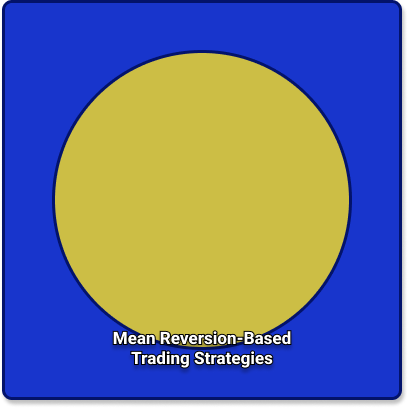
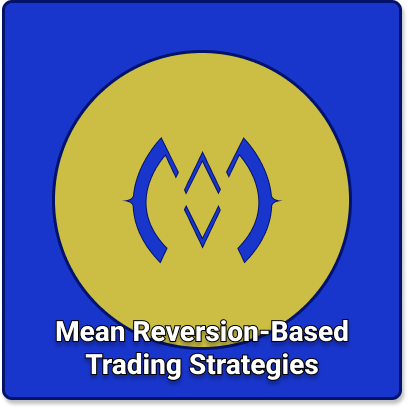
added images, made nav tweaks, fixed modal close issues

diff --git a/index.html b/index.html
@@ -42,10 +42,9 @@
         <!-- Navigation-->
         <nav class="navbar navbar-expand-lg bg-secondary text-uppercase fixed-top" id="mainNav">
             <div class="container">
-                <a class="navbar-brand" href="#page-top">The Curriculum</a>
+                <a class="navbar-brand" href="#page-top"><i class="fas fa-arrow-circle-up" style="font-size: 45px;"></i></a>
                 <button class="navbar-toggler text-uppercase font-weight-bold bg-primary text-white rounded" type="button" data-bs-toggle="collapse" data-bs-target="#navbarResponsive" aria-controls="navbarResponsive" aria-expanded="false" aria-label="Toggle navigation">
-                    Menu
-                    <i class="fas fa-bars"></i>
+                    <i class="fas fa-bars" style="color: var(--bs-secondary);"></i>
                 </button>
                 <div class="collapse navbar-collapse" id="navbarResponsive">
                     <ul class="navbar-nav ms-auto">
@@ -306,8 +305,8 @@
                                     <!-- Portfolio Modal - Text-->
                                     <p class="mb-4">Learn how to construct mean-reversion based trading strategies using Python!</p>
                                     <p class="mb-4"><i class="fas fa-drafting-compass"></i> This course is currently under construction <i class="fas fa-tools"></i></p>
-                                    <a data-bs-dismiss="modal"  href="#Contact"><button class="btn btn-primary">
-                                        <i class="fas fa-brain"></i>
+                                    <a href="#Contact">
+                                        <button class="btn btn-primary" data-bs-dismiss="modal">                                        <i class="fas fa-brain"></i>
                                         Request to Receive Updates
                                     </button></a>
                                 </div>
@@ -339,7 +338,8 @@
                                     <!-- Portfolio Modal - Text-->
                                     <p class="mb-4">Learn how to construct momentum-based trading strategies using Python!</p>
                                     <p class="mb-4"><i class="fas fa-drafting-compass"></i> This course is currently under construction <i class="fas fa-tools"></i></p>
-                                    <a data-bs-dismiss="modal" href="#Contact"><button class="btn btn-primary">
+                                    <a href="#Contact">
+                                        <button class="btn btn-primary" data-bs-dismiss="modal">
                                         <i class="fas fa-brain"></i>
                                         Request to Receive Updates
                                     </button></a>
@@ -372,7 +372,8 @@
                                     <!-- Portfolio Modal - Text-->
                                     <p class="mb-4">Learn how to build algorithmic trading systems with Python!</p>
                                     <p class="mb-4"><i class="fas fa-drafting-compass"></i> This course is currently under construction <i class="fas fa-tools"></i></p>
-                                    <a data-bs-dismiss="modal" href="#Contact"><button class="btn btn-primary">
+                                    <a href="#Contact">
+                                        <button class="btn btn-primary" data-bs-dismiss="modal">
                                         <i class="fas fa-brain"></i>
                                         Request to Receive Updates
                                     </button></a>
